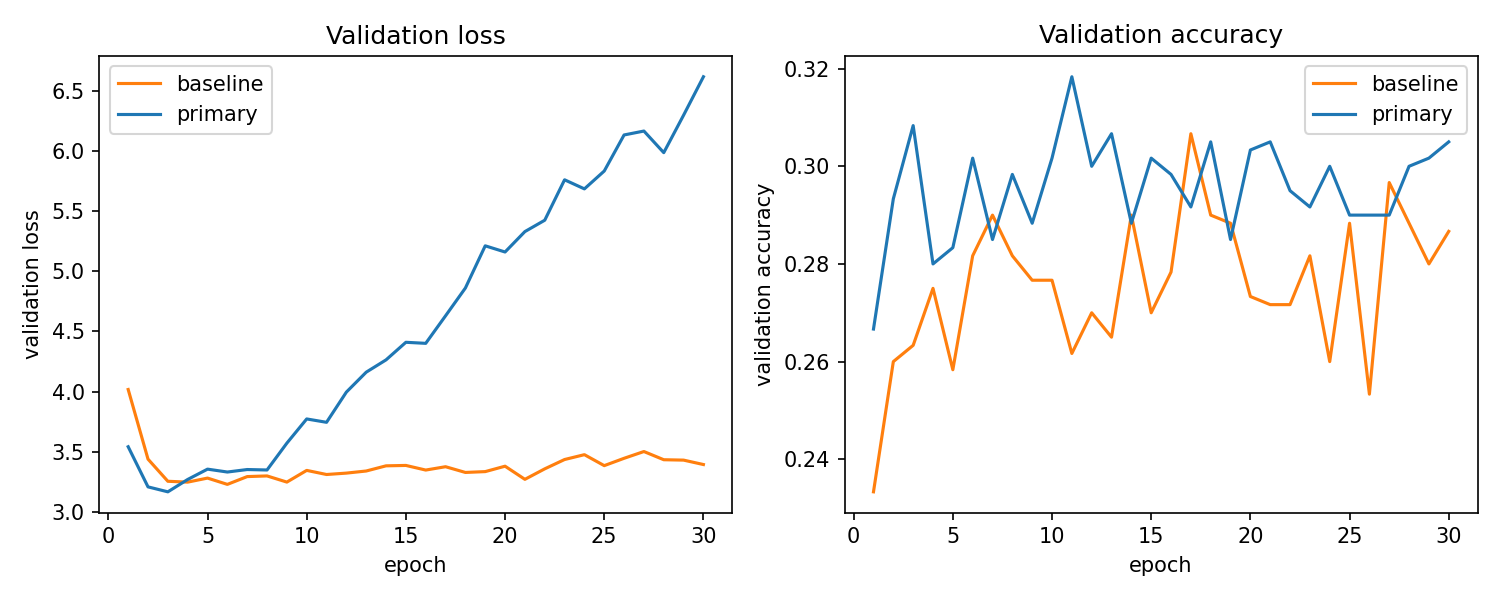
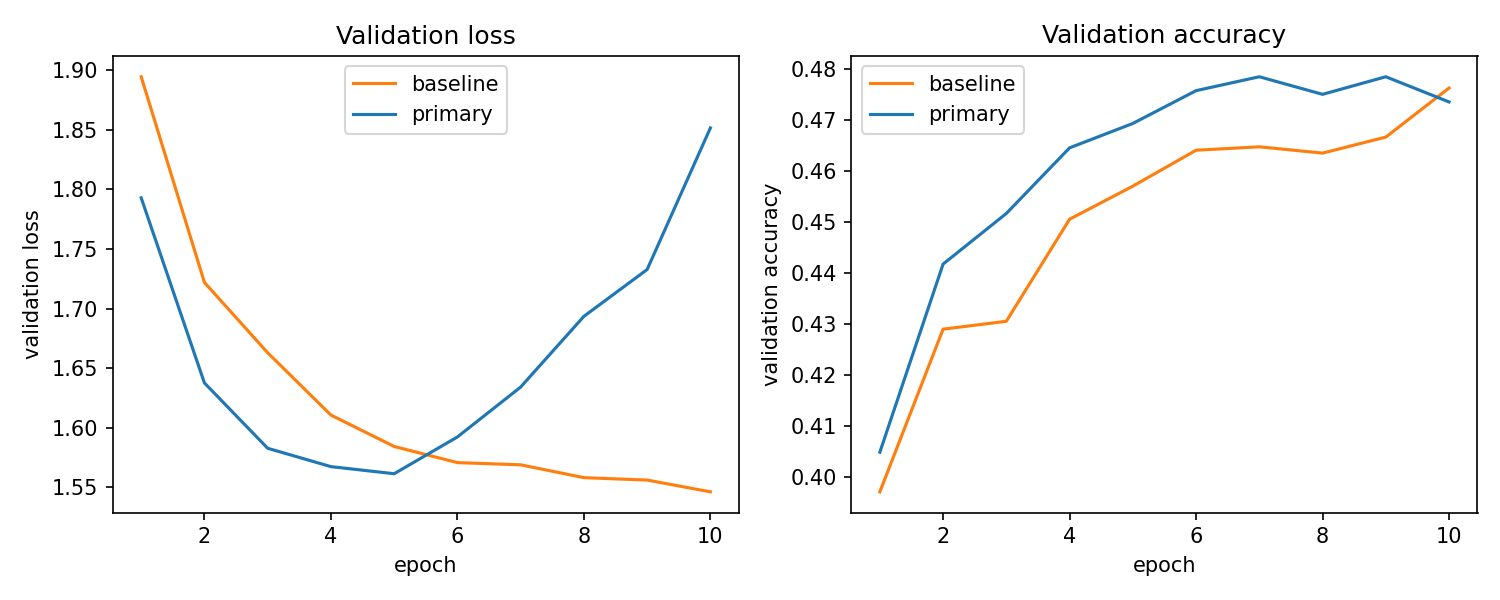
Further report writing and diagram making

diff --git a/report/progress_report.tex b/report/progress_report.tex
@@ -12,7 +12,10 @@
 \usepackage{xcolor}
 \usepackage{graphicx}
 \usepackage{tikz}
-\usetikzlibrary{positioning, arrows.meta}
+\usetikzlibrary{positioning, arrows.meta, fit, backgrounds}
+\renewcommand{\arraystretch}{0.88}
+\setlength{\abovecaptionskip}{3pt}
+\setlength{\belowcaptionskip}{0pt}
 
 \title{Mini-VLM: Progress Report}
 
@@ -30,51 +33,70 @@
 
 \section*{Introduction}
 
-Modern Vision-Language Models (VLMs) are massive, requiring billions of parameters and huge
-GPU resources that make them impossible to run on everyday hardware or mobile devices. Mini-VLM
-is a compact Vision-Language Model for Visual Question Answering (VQA) that we constrain to a
-strict \textbf{100MB storage budget}, targeting edge deployment: given a $224\times224$ image
-and a free-form text question as input, the model outputs one of the 1000 most common VQA
-answers (Figure~\ref{fig:pipeline}). Running AI models on resource-constrained hardware requires
-aggressive compression, and mapping raw pixels and free-form text jointly onto a correct answer
-requires learned, non-linear visual and linguistic representations that hand-coded rules cannot
-approximate (Goyal et al., 2017), which is why a deep-learning approach is appropriate here.
-Rather than shrinking a Transformer-based VLM post hoc, our core contribution is a \emph{unified
-RWKV pipeline}: an RWKV-based spatial bridge and an RWKV language core replace attention
-everywhere in the model, giving linear-time (not quadratic) inference cost in the combined
-visual+text sequence length (Peng et al., 2023), instead of the linear-projector-into-attention
-approach used by prior connectors such as LLaVA (Liu et al., 2023).
-
-Figure~\ref{fig:pipeline} shows the implemented pipeline: the frozen vision encoder is run
-once, offline, and cached, and only the bridge and language core are trained.
+Modern Vision-Language Models (VLMs) are massive, requiring billions of parameters and huge GPU
+resources that make them impossible to run on everyday or mobile hardware. Mini-VLM is a compact
+VLM for Visual Question Answering (VQA) constrained to a strict \textbf{100MB storage budget},
+targeting edge deployment: given a $224\times224$ image and a free-form text question, the model
+outputs one of the 1000 most common VQA answers (Figure~\ref{fig:pipeline}). Running AI models on
+resource-constrained hardware requires aggressive compression, and mapping raw pixels and
+free-form text jointly onto a correct answer requires learned, non-linear visual and linguistic
+representations that hand-coded rules cannot approximate (Goyal et al., 2017), which is why deep
+learning is appropriate here. Rather than shrinking a Transformer-based VLM post hoc, our core
+contribution is a \emph{unified RWKV pipeline}: an RWKV spatial bridge and RWKV language core
+replace attention everywhere, giving linear-time (not quadratic) cost in the combined visual+text
+sequence length (Peng et al., 2023), instead of the linear-projector-into-attention approach used
+by connectors such as LLaVA (Liu et al., 2023). Figure~\ref{fig:pipeline} also shows our
+control-group baseline, which keeps the same frozen encoder but replaces the RWKV bridge/core
+with a linear projector and a standard Transformer, isolating the RWKV design's contribution.
 
 \begin{figure}[!htbp]
   \centering
   \resizebox{\linewidth}{!}{%
   \begin{tikzpicture}[
-      node distance=4mm and 5mm,
-      box/.style={draw, rounded corners, align=center, minimum height=0.65cm, font=\small},
+      node distance=4mm and 4mm,
+      box/.style={draw, rounded corners, align=center, minimum height=0.7cm, font=\scriptsize},
       frozen/.style={box, dashed, fill=gray!10},
-      trainable/.style={box, fill=blue!8},
-      arr/.style={-{Latex[length=2mm]}}
+      primary/.style={box, fill=blue!10},
+      base/.style={box, fill=orange!12},
+      shared/.style={box, fill=gray!20},
+      arr/.style={-{Latex[length=1.8mm]}}
     ]
-    \node[box] (img) {Input Image\\$224\times224$};
-    \node[frozen, right=of img] (enc) {Frozen MobileNetV3\\Vision Encoder (FP16)};
-    \node[trainable, right=of enc] (bridge) {Trainable Bridge\\RWKV Spatial Bridge};
-    \node[trainable, right=of bridge] (core) {Language Core\\RWKV Language Core};
-    \node[box, right=of core] (ans) {VQA Answer\\(top-1000)};
-    \node[box, below=of enc] (q) {Text Question};
+    \node[box] (img) {Image\\$224{\times}224$};
+    \node[frozen, right=of img] (enc) {Frozen MobileNetV3\\FP16 (1.87MB)};
+    \node[shared, right=6mm of enc] (tok) {49 patch tokens\\$[576,7,7]$};
+    \node[box, below=6mm of enc] (q) {Question};
+    \node[shared, right=6mm of q] (qtok) {Word embeddings\\(learned tokenizer)};
+
+    \node[primary, above right=2mm and 8mm of tok] (bridge) {RWKV Spatial Bridge\\2 RWKV blocks\\learned pool $49{\to}8$};
+    \node[primary, right=6mm of bridge] (core) {RWKV Language Core\\4 RWKV blocks};
+    \node[primary, right=6mm of core] (ans1) {Classifier\\top-1000};
+
+    \node[base, below right=2mm and 8mm of tok] (proj) {Linear Projector\\(all 49 tokens)};
+    \node[base, right=6mm of proj] (xfmr) {Transformer Enc.\\4 layers, 4 heads, pre-LN};
+    \node[base, right=6mm of xfmr] (ans2) {Classifier\\top-1000};
 
     \draw[arr] (img) -- (enc);
-    \draw[arr] (enc) -- (bridge);
+    \draw[arr] (enc) -- (tok);
+    \draw[arr] (tok) |- (bridge);
+    \draw[arr] (tok) |- (proj);
     \draw[arr] (bridge) -- (core);
-    \draw[arr] (core) -- (ans);
-    \draw[arr] (q.east) -| (core.south);
+    \draw[arr] (core) -- (ans1);
+    \draw[arr] (proj) -- (xfmr);
+    \draw[arr] (xfmr) -- (ans2);
+    \draw[arr] (q) -- (qtok);
+    \draw[arr] (qtok) |- (core.west);
+    \draw[arr] (qtok) |- (xfmr.west);
+
+    \node[font=\scriptsize\bfseries, blue!50!black, above=0mm of bridge] {Primary (ours): linear-time RWKV, no attention};
+    \node[font=\scriptsize\bfseries, orange!60!black, below=0mm of xfmr] {Baseline: quadratic self-attention over all 49+$T_q$ tokens};
   \end{tikzpicture}%
   }
-  \caption{Implemented unified RWKV pipeline. Visual features are extracted offline once and
-  cached; the bridge compresses 49 spatial tokens to 8 language-aligned tokens, which are
-  concatenated with question tokens and processed by a shared RWKV stack.}
+  \caption{Implemented pipeline for both models. The frozen vision encoder runs once, offline,
+  and its FP16 features are cached; only the bridge/projector and language core/Transformer are
+  trained. The primary model compresses 49 spatial tokens to 8 language-aligned tokens with a
+  learned pooling matrix before its shared RWKV stack; the baseline instead feeds all 49 tokens
+  into a standard multi-head-attention Transformer, so the comparison isolates the RWKV bridge's
+  contribution rather than encoder or data differences.}
   \label{fig:pipeline}
 \end{figure}
 
@@ -83,27 +105,28 @@ once, offline, and cached, and only the bridge and language core are trained.
 We use the official \textbf{VQA v2.0} dataset (questions/annotations over COCO images), cleaned
 in two steps to fit a 100MB budget: (1) collapse free-form answers to a \textbf{top-1000
 most-common-answer classification} problem, built from the frequency distribution over the full
-443{,}757-example train2014 pool (87.47\% coverage), dropping any example outside that
-vocabulary; (2) resize/normalize images to $224\times224$ and pass them through the frozen
-vision encoder \emph{once, offline}, caching the resulting $576\times7\times7$ feature map
-(FP16) so training never re-runs the CNN. We develop on a small, reproducible CPU subset, then
-train the same architecture at production scale on GPU; Table~\ref{tab:stats} reports both.
+443{,}757-example train2014 pool (87.47\% coverage), dropping examples outside that vocabulary;
+(2) resize/normalize images to $224\times224$ and pass them through the frozen vision encoder
+\emph{once, offline}, caching the resulting $576\times7\times7$ FP16 feature map so training
+never re-runs the CNN. All numbers below are the full, production-scale run
+(Table~\ref{tab:stats}); a small CPU-only subset was used only for early development.
 
 \begin{table}[!htbp]
 \centering
 \footnotesize
-\begin{tabular}{lrr}
+\begin{tabular}{lr}
 \toprule
-Statistic & CPU dev subset & Full-scale (GPU) run \\
+Statistic & Value \\
 \midrule
-Train / val / test size & 3{,}000 / 600 / 600 & $\sim$369{,}000 / $\sim$19{,}000 / $\sim$187{,}000 \\
-Unique images & 3{,}454 + 598 & $\sim$204{,}000 \\
-Question len.\ (words); type mix (y/n:other:num) & 6.16; 44:43:13\% & 6.16; 44:43:13\% \\
+Train / val / test size & 368{,}751 / 19{,}407 / 186{,}489 \\
+Unique images (train+val; test) & 82{,}575; 40{,}404 \\
+Cached FP16 feature tensors & 122{,}979 \\
+Answer-type mix (yes/no : other : number) & 43.1\% : 43.5\% : 13.4\% \\
+Question length (words), mean [min, max] & 6.1 [2, 22] \\
+Top-1000 answer coverage (train2014 pool) & 87.47\% \\
 \bottomrule
 \end{tabular}
-\caption{Dataset statistics. Both splits are filtered from the same full train2014/val2014
-pools (443{,}757 / 214{,}354 questions, 87.47\% top-1000 coverage), so per-question statistics
-match; the full-scale run keeps every filtered example instead of sampling.}
+\caption{Full-scale dataset statistics (\texttt{outputs/processed\_full/dataset\_stats.json}).}
 \label{tab:stats}
 \end{table}
 
@@ -118,130 +141,130 @@ cleaning: image, question, and the multiple-choice answer used as the classifica
 
 \begin{figure}[!htbp]
   \centering
-  \includegraphics[height=2.1cm]{figures/sample_bird.jpg}
+  \includegraphics[height=2.0cm]{figures/sample_bird.jpg}
   \caption{Cleaned training example. Question: ``What color is this bird?'' Target answer
   (class \texttt{white and brown}, one of the top-1000 answer classes).}
   \label{fig:sample}
 \end{figure}
 
-\textbf{Challenges.} COCO images for the CPU subset are fetched individually to avoid 13--19GB
-zip archives; the full-scale run instead downloads and extracts those zips once, more reliable
-at $\sim$204{,}000 images. Separately, a batch of cached feature tensors was silently corrupted
-during extraction, spiking the training loss until we added a feature-integrity check
-(\texttt{mini\_vlm/data/check\_features.py}) that now runs before training.
+\textbf{Challenges.} Downloading/extracting the full $\sim$123,000-image COCO zip archives once
+was more reliable than the CPU-subset's per-image fetches, but not error-free: a batch of cached
+feature tensors was silently corrupted, spiking training loss until we added a feature-integrity
+check (\texttt{mini\_vlm/data/check\_features.py}) that now runs before training.
 
 \section*{Baseline Model}
 
 The baseline is the ``naive integration'' control group from the proposal: the same frozen
 vision encoder, but a plain \textbf{Linear Projector} maps all 49 spatial patch tokens (no
 compression) into a standard, unshared \texttt{nn.TransformerEncoder} (4 layers, 4 heads,
-$d_{model}=128$, pre-LN) alongside the question's word embeddings; the final token's hidden
-state is classified into 1000 answers with cross-entropy loss, no manual tuning beyond standard
-defaults (AdamW, $lr=3\times10^{-3}$, linear warmup).
+$d_{model}=128$, pre-LN, Figure~\ref{fig:pipeline}) alongside the question's word embeddings;
+the final token's hidden state is classified into 1000 answers, no tuning beyond standard
+defaults (AdamW, $lr=3\times10^{-3}$).
 
-\textbf{Quantitative results.} On the full-scale GPU run (10 epochs, $\sim$10 min), held-out
-accuracy reaches $\approx$\textbf{46\%}, well above the $\approx$20\% majority-class floor,
-validation loss flattening around epoch 5 while training loss keeps falling. On our CPU dev
-subset (1{,}247{,}080 params, 4.78MB, 30 epochs, $\sim$5 min) the pattern reproduces: train loss
-2.60, test accuracy \textbf{28.5\%} vs. the 20.33\% floor (Figure~\ref{fig:comparison_curves},
-Table~\ref{tab:comparison}). The full-scale model grows to $\approx$10MB, driven by the larger
-question-tokenizer vocabulary, not the architecture itself.
+\textbf{Quantitative results.} Trained for 10 epochs ($587.9$s $\approx$9.8 min) on the full
+training pool, the baseline reaches \textbf{47.38\%} held-out test accuracy (2{,}574{,}696
+params, 9.84MB) against a \textbf{21.84\%} majority-class floor (Table~\ref{tab:comparison});
+validation loss is still falling at epoch 10 (1.89$\to$1.55), i.e.\ not yet overfitting.
 
-\textbf{Qualitative results.} Table~\ref{tab:qualitative} (below, ``baseline'' column) shows
-representative held-out predictions. Early on, an unshared Transformer trained from scratch was
-fragile -- post-LN produced loss spikes/NaNs, fixed via pre-LN with linear warmup -- and the
-baseline collapsed to one high-frequency answer regardless of question. Now it gives varied,
-if often low-confidence, answers, occasionally the more conservative (and correct) model.
+\textbf{Qualitative results.} Table~\ref{tab:qualitative} (``baseline'' column) shows
+representative predictions. Early on, an unshared Transformer trained from scratch was fragile
+-- post-LN produced loss spikes/NaNs, fixed via pre-LN -- and collapsed to one high-frequency
+answer regardless of question; the trained model now gives varied, sometimes low-confidence
+answers, doing best on open-ended ``other'' questions (Table~\ref{tab:comparison}).
 
 \section*{Primary Model}
 
 \textbf{Vision Encoder.} Frozen, pretrained MobileNetV3-Small, compressed FP32$\to$FP16 (3.66MB
 $\to$ 1.87MB). INT8 post-training static quantization hit an operator-support gap instead
-(MobileNetV3's Squeeze-and-Excite blocks need a quantized elementwise multiply this
-environment's quantized-CPU kernels don't implement end to end); FP16 is a reliable substitute,
-INT8/GPTQ (Frantar et al., 2023) a concrete next step.
+(MobileNetV3's Squeeze-and-Excite blocks need a quantized elementwise multiply unimplemented in
+this environment's quantized-CPU kernels); FP16 is a reliable substitute, INT8/GPTQ (Frantar et
+al., 2023) a concrete next step.
+
+\begin{table}[!htbp]
+\centering
+\footnotesize
+\resizebox{\linewidth}{!}{%
+\begin{tabular}{lrrrrrrr}
+\toprule
+Model & Params & Size & Test acc. & Test loss & Acc.\ y/n & Acc.\ other & Acc.\ num.\\
+\midrule
+Majority-class floor & -- & -- & 21.84\% & -- & -- & -- & -- \\
+Baseline (Linear + Transformer) & 2{,}574{,}696 & 9.84MB & \textbf{47.38\%} & \textbf{1.60} & 57.57\% & \textbf{42.81\%} & \textbf{29.35\%} \\
+\textbf{Primary (RWKV bridge + core)} & 3{,}069{,}680 & 11.75MB & 46.70\% & 1.91 & \textbf{59.68\%} & 39.30\% & 28.88\% \\
+\bottomrule
+\end{tabular}%
+}
+\caption{Baseline vs.\ primary, full-scale test set (186{,}489 questions: 80{,}539 yes/no,
+80{,}930 other, 25{,}020 number), 10 epochs each, same optimizer/data/seed. Best per column
+bolded.}
+\label{tab:comparison}
+\end{table}
 
 \textbf{RWKV Spatial Bridge (our main contribution).} RWKV time-mixing (WKV linear-time
 recurrence, custom CUDA kernel for GPU) and channel-mixing (squared-ReLU FFN), from scratch --
 no attention. It flattens the $576\times7\times7$ feature map into 49 tokens, projects to
-$d_{model}=128$, runs 2 RWKV blocks, then compresses 49 tokens to 8 language-aligned tokens via
-a \emph{learned linear pooling matrix} ($8\times49$ directly-learned weights, not a dynamic
-cross-attention matrix).
+$d_{model}=128$, runs 2 RWKV blocks, then compresses to 8 language-aligned tokens via a
+\emph{learned linear pooling matrix} ($8\times49$ softmax-normalized weights, not cross-attention).
 
 \textbf{RWKV Language Core.} The 8 visual tokens concatenate with question word embeddings and
-pass through a 4-layer RWKV stack; the final hidden state feeds a linear classifier over 1000
-answers. Total (CPU dev subset): \textbf{1{,}742{,}064 parameters}, 6.69MB (comparable to the
-baseline's 1{,}247{,}080); at full scale the larger tokenizer vocabulary grows this to
-$\approx$11MB, still well inside budget.
-
-\begin{table}[!htbp]
-\centering
-\footnotesize
-\begin{tabular}{lrrrr}
-\toprule
-Model & Params & Size: subset $\to$ full & Acc.\ (subset) & Acc.\ (full) \\
-\midrule
-Majority-class floor & -- & -- & 20.3\% & $\approx$20\% \\
-Baseline (Linear + Transformer) & 1{,}247{,}080 & 4.78MB $\to$ $\approx$10MB & 28.5\% & $\approx$46\% \\
-\textbf{Primary (RWKV bridge + core)} & 1{,}742{,}064 & 6.69MB $\to$ $\approx$11MB & 26.8\% & $\approx$47\% \\
-\bottomrule
-\end{tabular}
-\caption{Baseline vs. primary model. Subset columns are exact, measured directly on our CPU
-dev checkpoints (30 epochs, 3{,}000 training examples); full columns (10 epochs, complete
-filtered VQA v2.0 pool, GPU) are approximate pending exact logging on the training machine.}
-\label{tab:comparison}
-\end{table}
+pass through a 4-layer RWKV stack (dropout 0.1 throughout); the final hidden state feeds a linear
+classifier over 1000 answers. Total: \textbf{3{,}069{,}680 parameters}, 11.75MB state dict --
+combined with the 1.87MB FP16 vision encoder, a \textbf{13.62MB} deployed model, $\approx$86MB of
+headroom left in the budget.
 
 \begin{figure}[!htbp]
   \centering
-  \includegraphics[width=0.5\linewidth]{figures/comparison_curves.png}
-  \caption{Baseline vs. primary model validation loss/accuracy, CPU dev subset, 30 epochs (a
-  deliberately long run relative to only 3{,}000 training examples). Both curves dip to a
-  minimum then climb back up, primary's much further -- the same relative ordering we see on
-  the full-scale, 10-epoch GPU run, just compressed into fewer, more heavily-repeated epochs.}
+  \includegraphics[width=0.46\linewidth]{figures/comparison_curves.png}
+  \caption{Baseline vs.\ primary validation loss/accuracy, full-scale run, 10 epochs. Primary's
+  validation loss bottoms around epoch 5 then climbs back to 1.85 by epoch 10 even with dropout
+  active throughout; the baseline's is still falling at epoch 10 -- primary overfits earlier and
+  more despite having only $\sim$20\% more parameters.}
   \label{fig:comparison_curves}
 \end{figure}
 
-\textbf{Quantitative results.} On the full-scale GPU run, held-out accuracy reaches
-$\approx$\textbf{47\%} ($\sim$10 minutes total, about the same wall-clock time as the
-baseline), essentially matching the baseline's $\approx$46\% rather than clearly exceeding it;
-unlike the primary model, the baseline's full-scale validation loss is still slowly falling at
-epoch 10, i.e. only the primary model is clearly overfitting yet at that scale. On our CPU dev
-subset, validation accuracy favors the primary model for most of training (final epoch: 30.5\%
-vs. 28.7\%) and its training loss falls much lower (0.51 vs. 2.60), but the ranking flips on the
-600-example held-out test split (26.8\% vs. 28.5\%, Table~\ref{tab:comparison}) -- a reminder
-that small test splits are noisy, and part of why the full-scale run's $\approx$187K-question
-test split is the more trustworthy number.
+\textbf{Quantitative results.} Overall test accuracy is essentially tied (46.70\% vs.\ 47.38\%),
+but the per-type breakdown (Table~\ref{tab:comparison}) is more specific: primary is
+\emph{better} on yes/no (59.68\% vs.\ 57.57\%), where 8 compressed tokens carry enough coarse
+scene information for a binary decision, but \emph{worse} on open-ended ``other'' (39.30\% vs.\
+42.81\%), where the baseline's uncompressed 49 tokens and full self-attention keep fine-grained
+detail the bridge's pooling discards. Both are tied and weakest on counting (29.35\% vs.\
+28.88\%) -- a data/architecture-agnostic limitation, not one the compression specifically causes.
 
-\textbf{Qualitative results.} Table~\ref{tab:qualitative} (``primary'' column) shows the same
-questions: when right, the primary model is very confident (\emph{snow}, 0.99), sharper than
-the baseline's near-uniform confidence, but that confidence makes mistakes more severe (``2'' at
-0.88 confidence for a ground-truth count of 1) -- consistent with a frozen encoder and only 8
-compressed visual tokens having no way to represent fine-grained counts.
+\textbf{Qualitative results.} Table~\ref{tab:qualitative} shows the same held-out questions for
+both models. When primary is right on a yes/no question it is confident (e.g.\ ``bird to land?'',
+0.74 vs.\ baseline's wrong 0.65 for ``no''); on harder ``other'' questions it can be confidently
+wrong (ground truth \emph{apple}, primary predicts \emph{hat} at 0.77) -- consistent with a
+frozen encoder and 8 compressed tokens losing detail needed to localize a small object.
 
 \begin{table}[!htbp]
 \centering
 \footnotesize
-\begin{tabular}{lll}
+\resizebox{\linewidth}{!}{%
+\begin{tabular}{lccc}
 \toprule
-Question (truth) & Baseline pred. (conf.) & Primary pred. (conf.) \\
+Question (truth, type) & Baseline pred. & Primary pred. \\
 \midrule
-Are all the computers on? (yes) & no (0.59) & \textbf{yes (1.00)} \\
-How many dogs are on the floor? (1) & \textbf{1 (0.23)} & 2 (0.88) \\
-What is on the mountain? (snow) & surfboard (0.05) & \textbf{snow (0.99)} \\
+Wearing a shirt? (no, y/n) & yes (0.68) & \textbf{no (0.51)} \\
+Somewhere for bird to land? (yes, y/n) & no (0.65) & \textbf{yes (0.74)} \\
+How many signs in picture? (3, num) & 1 (0.26) & 1 (0.52) \\
+What color is the shirt? (white, other) & \textbf{white (0.80)} & blue (0.35) \\
+What object is behind the women? (apple, other) & frisbee (0.73) & hat (0.77) \\
 \bottomrule
-\end{tabular}
-\caption{Representative held-out predictions (correct bolded), CPU dev subset checkpoints
-(\texttt{mini\_vlm/qualitative\_results.py}).}
+\end{tabular}%
+}
+\caption{Representative held-out predictions, conf.\ in parens (correct bolded), full-scale
+checkpoints (full set + image grid in \texttt{outputs/results\_full/}).}
 \label{tab:qualitative}
 \end{table}
 
-\textbf{Challenges \& feasibility.} The WKV recurrence's stable form (max-shifted sums, Peng et
-al. 2023) needed care to avoid overflow. Surprisingly, the primary model overfits \emph{more}
-than the baseline despite similar parameter counts; we added dropout inside every RWKV
-sub-block (previously unregularized, unlike \texttt{nn.TransformerEncoder}'s default), not yet
-validated at full scale. Both models beat the majority-class floor by $\approx$26 points within budget and
-$\sim$10 min/10 epochs -- further scaling is feasible.
+\textbf{Challenges \& feasibility.} The WKV recurrence's stable form (Peng et al., 2023) needed
+care to avoid overflow; we verified the CUDA kernel against the pure-Python reference on GPU
+(max diff.\ $<10^{-6}$, \texttt{verify\_wkv\_cuda.py}) before trusting it. Dropout was already
+active here, yet primary still overfits earlier/further than the baseline
+(Figure~\ref{fig:comparison_curves}) -- a best-val checkpoint or stronger regularization is a
+concrete next step. Feasibility: the full pool (368{,}751 examples) trains both models in under
+10 min.\ each on one GPU, beating the 21.84\% majority floor by $\approx$25 points at
+$\le$13.62MB, well inside the 100MB budget.
 
 \newpage
 \section*{References}
